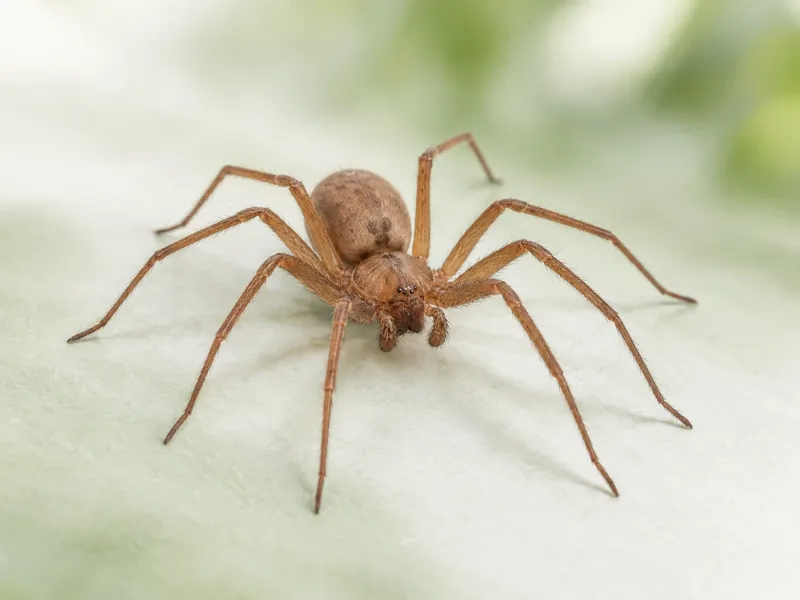
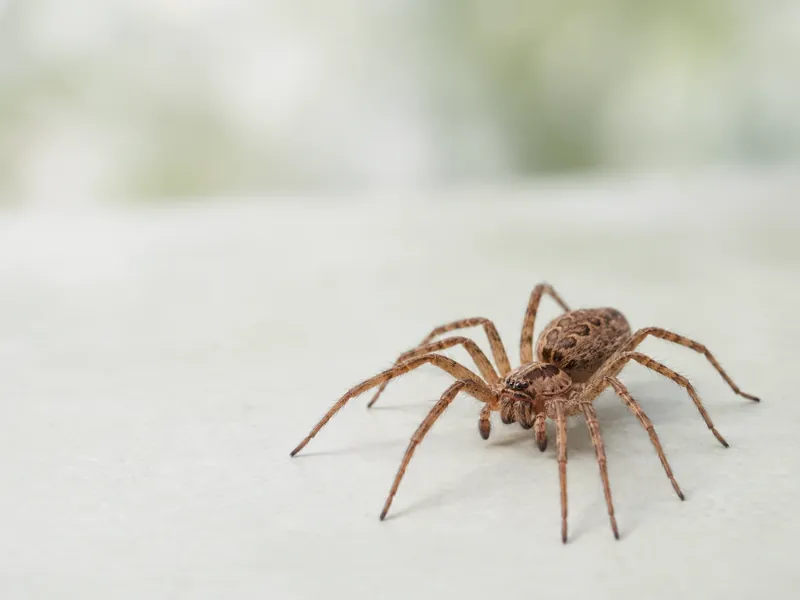
CAPEST: fotografías macro para arañas, cucarachas, roedores, hormigas y garrapatas
Claude-Session: https://claude.ai/code/session_019SghaAqWrYuqcTKSCQhTsL

diff --git a/capest/index.html b/capest/index.html
@@ -497,14 +497,14 @@ dialog .btn{margin-top:18px}
     </div>
     <div class="pests__hold"><div class="wrap"><div class="grid c3 pests__track">
       <!-- Los textos de riesgo son generales y editables; CAPEST debe validarlos antes de publicar. -->
-      <article class="card pest pest--photo reveal"><img class="pest__img" src="assets/plagas/aranas.webp" width="800" height="600" loading="lazy" alt="Araña de rincón sobre una superficie clara, fotografía macro"><span class="ic-circle ic-soft"><svg class="i"><use href="#i-spider"/></svg></span><h3>Arañas</h3><p>Se instalan en rincones, techos, bodegas y jardines. Su presencia genera inseguridad en el hogar y los espacios de trabajo.</p><a class="link-arrow" data-wa data-wa-msg="Hola, necesito información sobre un servicio de control de plagas. El problema que tengo es: arañas." href="https://wa.me/56968317150" target="_blank" rel="noopener">Consultar tratamiento <svg class="i"><use href="#i-arrow"/></svg></a></article>
+      <article class="card pest pest--photo reveal"><img class="pest__img" src="assets/plagas/aranas.webp" width="800" height="600" loading="lazy" alt="Araña sobre una superficie clara, fotografía macro"><span class="ic-circle ic-soft"><svg class="i"><use href="#i-spider"/></svg></span><h3>Arañas</h3><p>Se instalan en rincones, techos, bodegas y jardines. Su presencia genera inseguridad en el hogar y los espacios de trabajo.</p><a class="link-arrow" data-wa data-wa-msg="Hola, necesito información sobre un servicio de control de plagas. El problema que tengo es: arañas." href="https://wa.me/56968317150" target="_blank" rel="noopener">Consultar tratamiento <svg class="i"><use href="#i-arrow"/></svg></a></article>
       <article class="card pest reveal"><span class="ic-circle ic-soft"><svg class="i"><use href="#i-mosquito"/></svg></span><h3>Zancudos</h3><p>Se concentran en patios, jardines y zonas húmedas. Sus picaduras son una molestia constante, sobre todo en temporada cálida.</p><a class="link-arrow" data-wa data-wa-msg="Hola, necesito información sobre un servicio de control de plagas. El problema que tengo es: zancudos." href="https://wa.me/56968317150" target="_blank" rel="noopener">Consultar tratamiento <svg class="i"><use href="#i-arrow"/></svg></a></article>
       <article class="card pest reveal"><span class="ic-circle ic-soft"><svg class="i"><use href="#i-fly"/></svg></span><h3>Moscas</h3><p>Aparecen donde hay alimentos o residuos. Afectan la higiene de cocinas, restaurantes y locales comerciales.</p><a class="link-arrow" data-wa data-wa-msg="Hola, necesito información sobre un servicio de control de plagas. El problema que tengo es: moscas." href="https://wa.me/56968317150" target="_blank" rel="noopener">Consultar tratamiento <svg class="i"><use href="#i-arrow"/></svg></a></article>
       <article class="card pest reveal"><span class="ic-circle ic-soft"><svg class="i"><use href="#i-flea"/></svg></span><h3>Pulgas</h3><p>Suelen llegar con las mascotas y se esconden en alfombras, camas y tapices. Se reproducen rápido si no se tratan a tiempo.</p><a class="link-arrow" data-wa data-wa-msg="Hola, necesito información sobre un servicio de control de plagas. El problema que tengo es: pulgas." href="https://wa.me/56968317150" target="_blank" rel="noopener">Consultar tratamiento <svg class="i"><use href="#i-arrow"/></svg></a></article>
-      <article class="card pest reveal"><span class="ic-circle ic-soft"><svg class="i"><use href="#i-tick"/></svg></span><h3>Garrapatas</h3><p>Se alojan en jardines, perreras y zonas donde viven mascotas. Conviene actuar en el espacio y en su entorno.</p><a class="link-arrow" data-wa data-wa-msg="Hola, necesito información sobre un servicio de control de plagas. El problema que tengo es: garrapatas." href="https://wa.me/56968317150" target="_blank" rel="noopener">Consultar tratamiento <svg class="i"><use href="#i-arrow"/></svg></a></article>
-      <article class="card pest reveal"><span class="ic-circle ic-soft"><svg class="i"><use href="#i-ant"/></svg></span><h3>Hormigas</h3><p>Forman rutas hacia la cocina y las bodegas en busca de alimento. Si no se interviene el origen, vuelven.</p><a class="link-arrow" data-wa data-wa-msg="Hola, necesito información sobre un servicio de control de plagas. El problema que tengo es: hormigas." href="https://wa.me/56968317150" target="_blank" rel="noopener">Consultar tratamiento <svg class="i"><use href="#i-arrow"/></svg></a></article>
-      <article class="card pest reveal"><span class="ic-circle ic-soft"><svg class="i"><use href="#i-roach"/></svg></span><h3>Cucarachas</h3><p>Prefieren lugares cálidos, húmedos y poco visibles: cocinas, baños, bodegas y ductos. Requieren un tratamiento sostenido.</p><a class="link-arrow" data-wa data-wa-msg="Hola, necesito información sobre un servicio de control de plagas. El problema que tengo es: cucarachas." href="https://wa.me/56968317150" target="_blank" rel="noopener">Consultar tratamiento <svg class="i"><use href="#i-arrow"/></svg></a></article>
-      <article class="card pest reveal"><span class="ic-circle ic-soft"><svg class="i"><use href="#i-rodent"/></svg></span><h3>Roedores</h3><p>Buscan refugio y alimento en viviendas, bodegas y locales. Pueden dañar instalaciones y productos almacenados.</p><a class="link-arrow" data-wa data-wa-msg="Hola, necesito información sobre un servicio de control de plagas. El problema que tengo es: roedores." href="https://wa.me/56968317150" target="_blank" rel="noopener">Consultar tratamiento <svg class="i"><use href="#i-arrow"/></svg></a></article>
+      <article class="card pest pest--photo reveal"><img class="pest__img" src="assets/plagas/garrapatas.webp" width="800" height="600" loading="lazy" alt="Garrapata sobre una superficie clara, fotografía macro"><span class="ic-circle ic-soft"><svg class="i"><use href="#i-tick"/></svg></span><h3>Garrapatas</h3><p>Se alojan en jardines, perreras y zonas donde viven mascotas. Conviene actuar en el espacio y en su entorno.</p><a class="link-arrow" data-wa data-wa-msg="Hola, necesito información sobre un servicio de control de plagas. El problema que tengo es: garrapatas." href="https://wa.me/56968317150" target="_blank" rel="noopener">Consultar tratamiento <svg class="i"><use href="#i-arrow"/></svg></a></article>
+      <article class="card pest pest--photo reveal"><img class="pest__img" src="assets/plagas/hormigas.webp" width="800" height="600" loading="lazy" alt="Hormiga sobre una superficie clara, fotografía macro"><span class="ic-circle ic-soft"><svg class="i"><use href="#i-ant"/></svg></span><h3>Hormigas</h3><p>Forman rutas hacia la cocina y las bodegas en busca de alimento. Si no se interviene el origen, vuelven.</p><a class="link-arrow" data-wa data-wa-msg="Hola, necesito información sobre un servicio de control de plagas. El problema que tengo es: hormigas." href="https://wa.me/56968317150" target="_blank" rel="noopener">Consultar tratamiento <svg class="i"><use href="#i-arrow"/></svg></a></article>
+      <article class="card pest pest--photo reveal"><img class="pest__img" src="assets/plagas/cucarachas.webp" width="800" height="600" loading="lazy" alt="Cucaracha alemana sobre una superficie clara, fotografía macro"><span class="ic-circle ic-soft"><svg class="i"><use href="#i-roach"/></svg></span><h3>Cucarachas</h3><p>Prefieren lugares cálidos, húmedos y poco visibles: cocinas, baños, bodegas y ductos. Requieren un tratamiento sostenido.</p><a class="link-arrow" data-wa data-wa-msg="Hola, necesito información sobre un servicio de control de plagas. El problema que tengo es: cucarachas." href="https://wa.me/56968317150" target="_blank" rel="noopener">Consultar tratamiento <svg class="i"><use href="#i-arrow"/></svg></a></article>
+      <article class="card pest pest--photo reveal"><img class="pest__img" src="assets/plagas/roedores.webp" width="800" height="600" loading="lazy" alt="Ratón doméstico sobre una superficie clara, fotografía de estudio"><span class="ic-circle ic-soft"><svg class="i"><use href="#i-rodent"/></svg></span><h3>Roedores</h3><p>Buscan refugio y alimento en viviendas, bodegas y locales. Pueden dañar instalaciones y productos almacenados.</p><a class="link-arrow" data-wa data-wa-msg="Hola, necesito información sobre un servicio de control de plagas. El problema que tengo es: roedores." href="https://wa.me/56968317150" target="_blank" rel="noopener">Consultar tratamiento <svg class="i"><use href="#i-arrow"/></svg></a></article>
       <article class="card pest reveal"><span class="ic-circle ic-soft"><svg class="i"><use href="#i-magnify"/></svg></span><h3>Otras plagas</h3><p>Si tu problema no está en la lista, cuéntanos qué observas y evaluamos el espacio para orientarte.</p><a class="link-arrow" data-wa data-wa-msg="Hola, necesito información sobre un servicio de control de plagas. Tengo otro tipo de plaga." href="https://wa.me/56968317150" target="_blank" rel="noopener">Consultar tratamiento <svg class="i"><use href="#i-arrow"/></svg></a></article>
     </div></div></div>
     <div class="wrap pests__foot"><div class="pests__bar" aria-hidden="true"><i></i></div><p class="pests-note"><span class="hand">Prevenir hoy evita problemas mayores mañana.</span></p></div>
